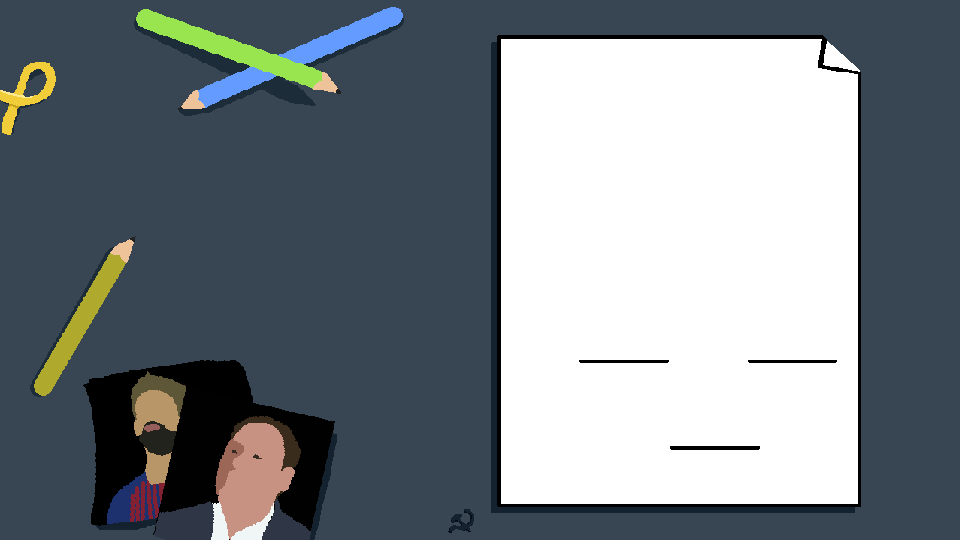
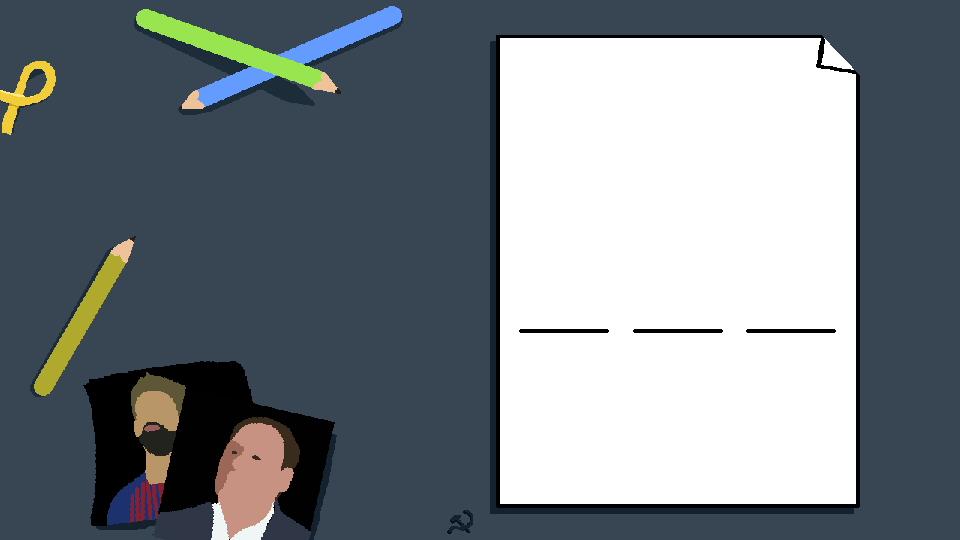
Added Animations and PLay button

diff --git a/Motor2D/j1Scene.cpp b/Motor2D/j1Scene.cpp
@@ -31,8 +31,38 @@ bool j1Scene::Awake(pugi::xml_node& config)
 
 	level_name = config.child("levels");
 
-	
+	cross.PushBack({1,1,56,59});
+	cross.PushBack({ 57,1,56,59 });
+	cross.PushBack({ 113,1,56,59 });
+	cross.PushBack({ 169,1,56,59 });
+	cross.PushBack({ 225,1,56,59 });
+	cross.PushBack({ 281,1,56,59 });
+	cross.PushBack({ 337,1,56,59 });
+	cross.PushBack({ 393,1,56,59 });
+	cross.PushBack({ 449,1,56,59 });
+	cross.PushBack({ 1,60,56,59 });
+	cross.PushBack({ 57,60,56,59 });
+	cross.PushBack({ 113,60,56,59 });
+	cross.PushBack({ 169,60,56,59 });
+	cross.PushBack({ 225,60,56,59 });
+	cross.PushBack({ 281,60,56,59 });
+	cross.PushBack({ 337,60,56,59 });
+	cross.PushBack({ 393,60,56,59 });
+	cross.PushBack({ 449,60,56,59 });
+	cross.PushBack({ 1,119,56,59 });
+	cross.PushBack({ 57,119,56,59 });
+	cross.PushBack({ 113,119,56,59 });
+	cross.PushBack({ 169,119,56,59 });
+	cross.PushBack({ 225,119,56,59 });
+	cross.PushBack({ 281,119,56,59 });
+	cross.PushBack({ 337,119,56,59 });
+	cross.PushBack({ 393,119,56,59 });
+	cross.PushBack({ 449,119,56,59 });
+	cross.PushBack({ 1,178,56,59 });
+	cross.PushBack({ 57,178,56,59 });
 
+	cross.speed = 0.5f;
+	cross.loop = true;
 
 	return ret;
 }
@@ -42,20 +72,22 @@ bool j1Scene::Start()
 {	
 	menu_texture = App->tex->Load("maps/menu.png");
 	buttons = App->tex->Load("maps/menu_button.png");
-
+	cross_texture = App->tex->Load("maps/cross.png");
+	hand_texture = App->tex->Load("maps/hand.png");
 
 	if (level == menu)
 	{
 		App->gui->AddImage(0, 0, menu_texture);
-		play = App->gui->AddButton(515, 333, buttons,this);
-		options = App->gui->AddButton(675, 333, buttons, this);
-		exit = App->gui->AddButton(607, 416, buttons, this);
-		App->gui->AddLabel(593, 330,"PLAY",BLACK, UPHEAVAL,24);
-		App->gui->AddLabel(585, 370, "JOGAR", BLACK, UPHEAVAL, 24);
-		App->gui->AddLabel(745, 330, "OPTIONS", BLACK, UPHEAVAL, 24);
-		App->gui->AddLabel(738, 370, "D'OPCIONS", BLACK, UPHEAVAL, 24);
-		App->gui->AddLabel(687, 416, "EXIT", BLACK, UPHEAVAL, 24);
-		App->gui->AddLabel(675, 456, "SORTIR", BLACK, UPHEAVAL, 24);		
+		play = App->gui->AddButton(537, 368, buttons,this);
+		options = App->gui->AddButton(650, 368, buttons, this);
+		exit = App->gui->AddButton(764, 368, buttons, this);
+		App->gui->AddLabel(537, 305,"PLAY",BLACK, UPHEAVAL,20);
+		App->gui->AddLabel(530, 335, "JOGAR", BLACK, UPHEAVAL, 20);
+		App->gui->AddLabel(635, 305, "OPTIONS", BLACK, UPHEAVAL, 20);
+		App->gui->AddLabel(630, 335, "D'OPCIONS", BLACK, UPHEAVAL, 20);
+		App->gui->AddLabel(768, 305, "EXIT", BLACK, UPHEAVAL, 20);
+		App->gui->AddLabel(758, 335, "SORTIR", BLACK, UPHEAVAL, 20);
+		hand = App->gui->AddImage(337, 420, hand_texture, {});
 	}
 
 	if (level == level_1) {
@@ -127,6 +159,46 @@ bool j1Scene::Update(float dt)
 		App->fadetoblack->FadeToBlack((j1Module*)App->scene, (j1Module*)App->scene, 1.5);
 	}
 
+	if (change == false)
+	{
+		switch (level)
+		{
+		case menu:
+			if (play->state == MOUSE_ENTER)
+				hand->pos.x = 337;
+			if (options->state == MOUSE_ENTER)
+				hand->pos.x = 450;
+			if (exit->state == MOUSE_ENTER)
+				hand->pos.x = 563;
+
+
+			if (play->state == L_MOUSE_PRESSED)
+			{
+				App->gui->AddImage(0, 0, cross_texture, cross, play);
+				change = true;
+			}
+			if (options->state == MOUSE_ENTER)
+				hand->pos.x = 450;
+			if (exit->state == MOUSE_ENTER)
+				hand->pos.x = 563;
+
+
+			break;
+		default:
+			break;
+		}
+	}
+
+	if (change == true)
+	{
+		if (hand->anim.Finished())
+		{
+			level = level_1;
+			change = false;
+			App->fadetoblack->FadeToBlack((j1Module*)App->scene, (j1Module*)App->scene, 1.5);
+			
+		}
+	}
 
 	//App->render->Blit(img, 0, 0);
 	App->map->Draw();

diff --git a/Motor2D/UIElement.cpp b/Motor2D/UIElement.cpp
@@ -20,10 +20,19 @@ UIElement::UIElement(int x, int y, uint type, const SDL_Texture* texture, UIElem
 
 void UIElement::Draw(float dt)
 {
-	if (parent != nullptr)
-		App->render->Blit(texture, parent->pos.x + pos.x, parent->pos.y + pos.y, &rect, false, 0.0);
+
+	if (anim.GetCurrentFrame().w == 0)
+		current_animation = rect;
 	else
-		App->render->Blit(texture, pos.x, pos.y, &rect, false, 0.0);
+		current_animation = anim.GetCurrentFrame();
+
+	
+	if (parent != nullptr)
+		App->render->Blit(texture, parent->pos.x + pos.x, parent->pos.y + pos.y, &(current_animation), false, 0.0);
+
+	else
+		App->render->Blit(texture, pos.x, pos.y, &(current_animation), false, 0.0);
+
 }
 
 void UIElement::Update(float dt)
@@ -47,27 +56,14 @@ void UIElement::Update(float dt)
 			state = NO_STATE;
 
 		if (App->input->GetMouseButtonDown(SDL_BUTTON_LEFT) == KEY_DOWN && state == MOUSE_ENTER) {
-			state = L_MOUSE_PRESSED;
+			state = UI_STATE::L_MOUSE_PRESSED;
 			this->callback->UIEvent(this, state);
-			SDL_Texture* cross; 
-			cross = App->tex->Load("maps/cross.png");
 			LOG("Mouse Left Click");
 		}
 		else if (App->input->GetMouseButtonDown(SDL_BUTTON_LEFT) == KEY_UP && state == L_MOUSE_PRESSED) {
 			state = NO_STATE;
 			this->callback->UIEvent(this, state);
 			LOG("Mouse Stop Left Click");
-		}
-
-		if (state == L_MOUSE_PRESSED)
-		{
-			if (mouse_x != mouse2.x || mouse_y != mouse2.y) {
-				App->input->GetMouseMotion(mouse_movement.x, mouse_movement.y);
-				pos.x += mouse_movement.x;
-				pos.y += mouse_movement.y;
-				mouse2.x = mouse_x;
-				mouse2.y = mouse_y;
-			}
 		}
 	}
 }

diff --git a/Motor2D/j1Scene.h b/Motor2D/j1Scene.h
@@ -3,6 +3,8 @@
 
 #include "j1Module.h"
 #include "Button.h"
+#include "Image.h"
+#include "Animation.h"
 
 struct SDL_Texture;
 
@@ -37,14 +39,18 @@ public:
 	bool Save(pugi::xml_node&) const;
 	bool Load(pugi::xml_node&);
 
+	bool test;
+
 	void CheckChange();
 
 public:
 	int level = 0;
 	bool justloaded = false;
 	bool changeMap;
-	SDL_Texture* menu_texture, *buttons;
+	SDL_Texture* menu_texture, *buttons, *cross_texture, *hand_texture;
 	Button* play, *options, *exit;
+	Image* hand;
+
 
 	enum Levels
 	{
@@ -58,6 +64,8 @@ public:
 private:
 	iPoint mouse;
 	pugi::xml_node level_name;
+	Animation cross;
+	bool change; 
 
 	//UI ELEMENTS
 

diff --git a/Motor2D/j1Gui.h b/Motor2D/j1Gui.h
@@ -70,7 +70,7 @@ public:
 	bool Update(float dt);
 
 	Label* AddLabel(int x, int y, char* text, uint color, uint font, int size, UIElement* parent = nullptr);
-	Image* AddImage(int x, int y, SDL_Texture* texture, Animation* anim = nullptr, UIElement* parent = nullptr);
+	Image* AddImage(int x, int y, SDL_Texture* texture, Animation anim = {}, UIElement* parent = nullptr);
 	Button* AddButton(int x, int y, SDL_Texture* texture, j1Module* callback = nullptr, UIElement* parent = nullptr);
 
 	bool GetState(UIElement* element);

diff --git a/Motor2D/j1Gui.cpp b/Motor2D/j1Gui.cpp
@@ -104,9 +104,10 @@ Label* j1Gui::AddLabel(int x, int y, char* text, uint colors, uint fonts, int si
 }
 
 
-Image* j1Gui::AddImage(int x, int y, SDL_Texture* texture, Animation* anim, UIElement* parent)
+Image* j1Gui::AddImage(int x, int y, SDL_Texture* texture, Animation anim, UIElement* parent)
 {
-	Image* image = new Image(x, y, IMAGE, texture, anim, parent);
+	Animation* animation = &anim;
+	Image* image = new Image(x, y, IMAGE, texture, animation, parent);
 	elements.add((UIElement*)image);
 
 	return image;

diff --git a/Motor2D/UIElement.h b/Motor2D/UIElement.h
@@ -36,7 +36,7 @@ public:
 
 	uint type;
 
-	
+	UI_STATE state;
 
 	const SDL_Texture *texture = nullptr;
 
@@ -44,12 +44,16 @@ public:
 
 	UIElement(int x, int y, uint type, const SDL_Texture* texture, UIElement* parent = nullptr);
 	virtual ~UIElement() { };
-	UI_STATE state;
+	
 	virtual void Draw(float dt);
 	virtual void Update(float dt);
 
 public:
 	Animation anim;
+
+private:
+	SDL_Rect current_animation;
+
 
 };
 

diff --git a/Motor2D/Image.h b/Motor2D/Image.h
@@ -10,7 +10,7 @@
 class Image : public UIElement
 {
 public:
-	Image(int pos_x, int pos_y, uint type, SDL_Texture* texture, Animation* anim = NULL, UIElement* parent = nullptr);
+	Image(int pos_x, int pos_y, uint type, SDL_Texture* texture, Animation* anim = nullptr, UIElement* parent = nullptr);
 };
 
 

diff --git a/Motor2D/Image.cpp b/Motor2D/Image.cpp
@@ -8,6 +8,7 @@ Image::Image(int x, int y, uint type, SDL_Texture * texture, Animation* anim, UI
 	pos.y = y;
 
 	this->parent = parent;
+
 	if (anim != nullptr)
 		this->anim = *anim;
 }
